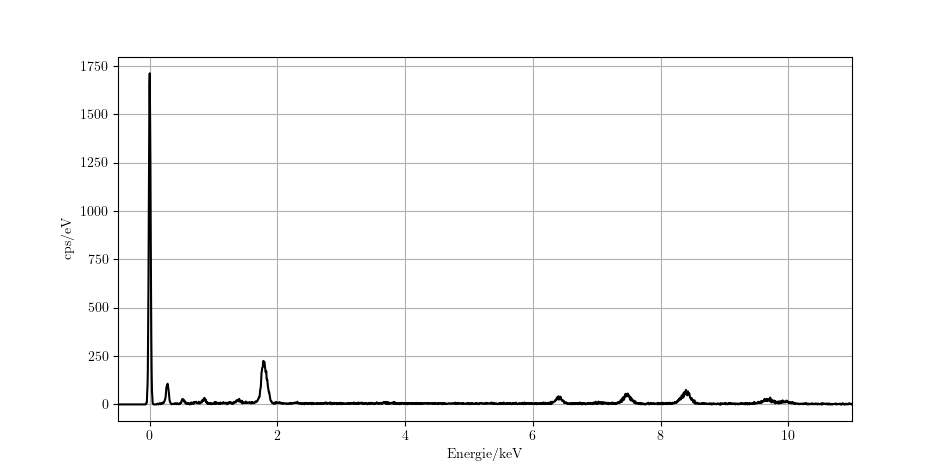
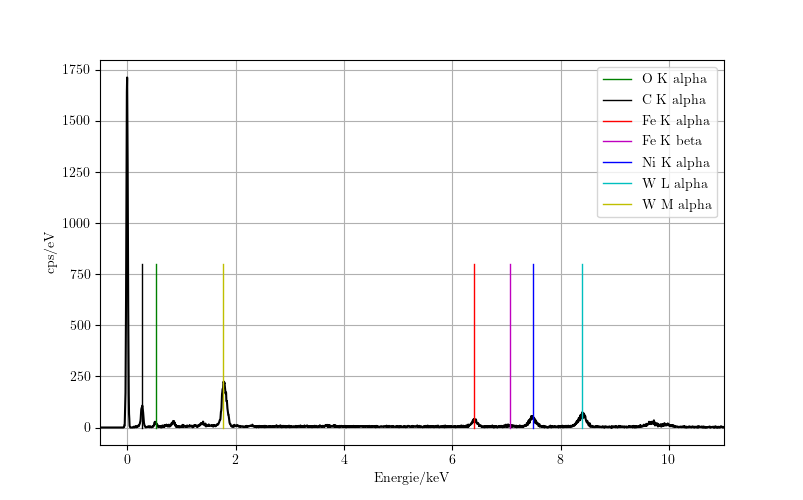
REM Plot Update

diff --git a/Versuch_REM/04-Versuchsauswertung/Plot.py b/Versuch_REM/04-Versuchsauswertung/Plot.py
@@ -21,11 +21,11 @@ datN1 = 'Versuch_REM/Daten/d/EDX/Normal1.txt'
 datE = 'Versuch_REM/Daten/e/EDX/chip.txt'
 
 #Elementmarker
-Name = ['O K alpha', 'C K alpha','Fe K alpha', 'Fe K beta', 'Fe L alpha']
-Energie = [0.5249, 0.277, 6.40384, 7.05798, 0.705]
-Farbe = ['g', 'c', 'r', 'm', 'b']
+Name = ['O K alpha', 'C K alpha','Fe K alpha', 'Fe K beta', 'Ni K alpha', 'W L alpha', 'W M alpha']
+Energie = [0.5249, 0.277, 6.40384, 7.05798, 7.47815, 8.3976, 1.7754]
+Farbe = ['g', 'k', 'r', 'm', 'b', 'c', 'y']
 
-data = datALoch
+data = datN1
 df = pd.read_csv(data, delim_whitespace=True, skiprows=24)
 
 n=5 #Alle Werte dopen, die kleiner sind als 50(?)
